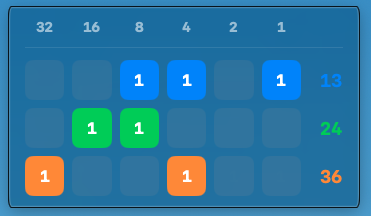
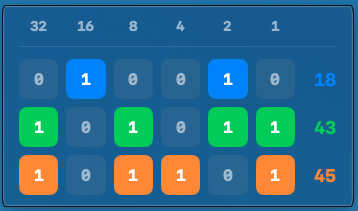
zero bits are shown as 0 instead of empty tiles

diff --git a/Sources/BinClockView.swift b/Sources/BinClockView.swift
@@ -83,9 +83,9 @@ struct BitCell: View {
             .fill(isOn ? color : Color.gray.opacity(0.15))
             .frame(height: 40)
             .overlay(
-                Text(isOn ? "1" : "")
+                Text(isOn ? "1" : "0")
                     .font(.system(size: 16, weight: .bold, design: .monospaced))
-                    .foregroundColor(.white)
+                    .foregroundColor(isOn ? .white : .secondary)
             )
             .animation(.spring(response: 0.3, dampingFraction: 0.6, blendDuration: 0), value: isOn)
             .frame(maxWidth: .infinity)

diff --git a/README.md b/README.md
@@ -2,7 +2,7 @@
 
 ![binclock](binclock.png)
 
-BinClock is a small app for Mac OSX that displays a binary clock: hours, minutes and seconds are displayed as bits, with decimal output on the right side for ease of reading. The above image was taken at 13:24:36.
+BinClock is a small app for Mac OSX that displays a binary clock: hours, minutes and seconds are displayed as bits, with decimal output on the right side for ease of reading. The above image was taken at 18:43:45.
 
 BinClock uses a "widget-like" display; it stays on top of other windows. But it is just a Mac OSX binary with one (undecorated) output window. It starts in the upper right hand corner (you can modify the source if you want something else).
 
